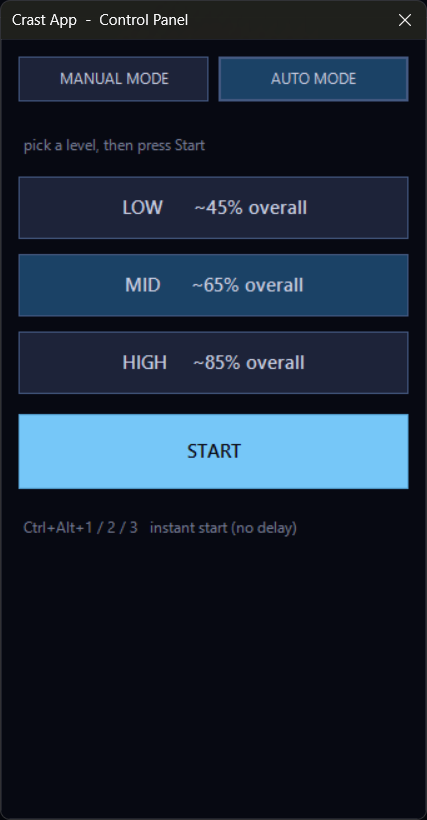
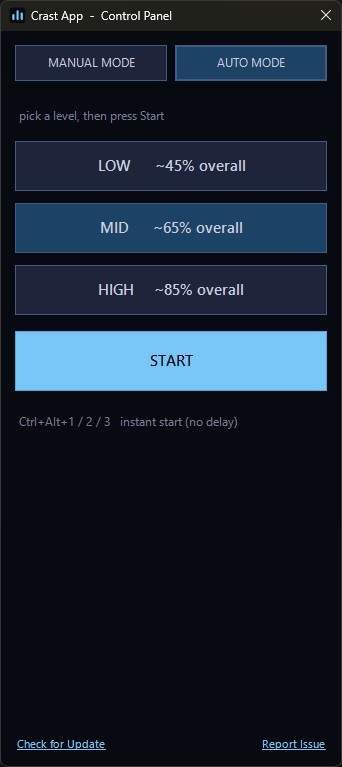
Update site copy and screenshots for browser tab switching + app switching
Broadens "Chrome tab switching" references across the home page, How It
Works, FAQ, and privacy pages to cover every supported browser, and adds
copy for the new independent App switching feature. Replaces the Auto
Mode and Manual Mode control panel screenshots with new ones showing the
taller mixer window and the new sliders.

diff --git a/how-it-works.html b/how-it-works.html
@@ -59,7 +59,7 @@
     <section class="guide-section alt">
       <div class="container guide-grid reverse">
         <div class="guide-image">
-          <img src="assets/screenshots/manual-mode.png" alt="Crast Manual Mode panel with Overall, Mouse, and Keyboard sliders">
+          <img src="assets/screenshots/manual-mode.png" alt="Crast Manual Mode panel with Overall, Mouse, Keyboard, Variation, Browser tab switch, and App switch sliders">
         </div>
         <div class="guide-text">
           <span class="tag">Manual Mode</span>
@@ -69,7 +69,8 @@
             <li>Switch to the <strong>Manual Mode</strong> tab in the control panel.</li>
             <li>Drag <strong>Overall</strong>, or set <strong>Mouse</strong> and <strong>Keyboard</strong> individually; Overall updates to match either way.</li>
             <li>Toggle <strong>Constant</strong> (fixed) or <strong>Range</strong> (randomized), and set how much it can drift with <strong>Variation</strong>.</li>
-            <li>Set how often Chrome tabs switch, or drag it to 0 to turn that off entirely.</li>
+            <li>Set how often browser tabs switch, or drag it to 0 to turn that off entirely.</li>
+            <li>Set how often Crast rotates to a different open app, or drag it to 0 to turn that off too.</li>
             <li>Press <strong>Start</strong>, or hide the panel with <kbd>Ctrl+Alt+G</kbd>. Either way, there's a short pause before anything actually starts moving, so you have time to step away.</li>
           </ol>
           <p class="note"><kbd>Ctrl+Alt+G</kbd> hides the panel and starts running, or brings it back to pause and adjust. <kbd>Ctrl+Alt+H</kbd> turns Manual Mode off completely.</p>
@@ -81,14 +82,14 @@
       <div class="container">
         <div class="section-head">
           <h2>What about screenshots?</h2>
-          <p>If your tracker takes periodic screenshots, tab switching and scrolling matter more than raw mouse or keyboard input, since a screenshot only shows whatever's on screen at that instant.</p>
+          <p>If your tracker takes periodic screenshots, tab switching, app switching, and scrolling matter more than raw mouse or keyboard input, since a screenshot only shows whatever's on screen at that instant.</p>
         </div>
         <div style="max-width:640px; margin:0 auto;">
           <ol class="steps">
-            <li>Make sure Chrome is the window actually showing on your screen. Tab switching only helps if Chrome is what's in the foreground.</li>
-            <li>Open a few real tabs you actually use for work, docs, dashboards, whatever's legitimate, so what shows up is stuff you'd normally have open anyway.</li>
-            <li>Crast rotates through those open tabs automatically, so a screenshot never catches the same tab sitting there twice in a row.</li>
-            <li>In <strong>Manual Mode</strong>, the Chrome tab switch slider sets exactly how many seconds go by between switches.</li>
+            <li>Open a few real tabs and apps you actually use for work, docs, dashboards, whatever's legitimate, so what shows up is stuff you'd normally have open anyway.</li>
+            <li>Crast rotates through those open browser tabs automatically, so a screenshot never catches the same tab sitting there twice in a row. It works across Chrome, Edge, Brave, Opera, Vivaldi, and Firefox, whichever one is actually in the foreground.</li>
+            <li>Crast also rotates which app is in the foreground, on its own separate timer, so a screenshot can catch you in your browser, your editor, a document, whatever else you have open, instead of the same window every time.</li>
+            <li>In <strong>Manual Mode</strong>, the browser tab switch and app switch sliders each set exactly how many seconds go by between switches, independently of each other.</li>
             <li>Crast scrolls the page too. Between a fresh tab and a different scroll position, back-to-back screenshots look like normal, active browsing instead of one frozen window.</li>
           </ol>
           <p class="note">Using <strong>Manual Mode</strong>? The control panel itself is a real, visible window while it's open, so if a screenshot would catch anything, it's that. Adjust your sliders and hit <strong>Start</strong> (or <kbd>Ctrl+Alt+G</kbd>) as soon as you're done. The panel disappears the instant you do, and the 10-second pause before anything starts moving means even a screenshot fired right around then won't catch the panel on screen.</p>

diff --git a/index.html b/index.html
@@ -92,8 +92,13 @@
           </div>
           <div class="card">
             <span class="tag">Browser sync</span>
-            <h3>Chrome tab switching</h3>
-            <p>Switches tabs in your real, multi-tab Chrome windows on whatever interval you want. Fully adjustable, or just turn it off in Manual mode.</p>
+            <h3>Browser tab switching</h3>
+            <p>Switches tabs in your real, multi-tab browser windows, Chrome, Edge, Brave, Opera, Vivaldi, and Firefox, on whatever interval you want. Fully adjustable, or just turn it off in Manual mode.</p>
+          </div>
+          <div class="card">
+            <span class="tag">App rotation</span>
+            <h3>App switching</h3>
+            <p>Rotates the active window across everything you have open, not just browsers. Set your own interval in Manual mode, or leave it running on its default timing in Auto mode.</p>
           </div>
           <div class="card">
             <span class="tag">Persistence</span>

diff --git a/download.html b/download.html
@@ -45,7 +45,7 @@
             <div class="price">&#8369;399 <span>one-time</span></div>
             <ul>
               <li>All intensity levels + Manual mixer</li>
-              <li>Chrome tab-switching</li>
+              <li>Browser tab &amp; app switching</li>
               <li>In-app updates</li>
               <li>Email support</li>
             </ul>

diff --git a/faq.html b/faq.html
@@ -99,7 +99,7 @@
 
           <div class="faq-item">
             <button class="faq-q">Why not just use a mouse jiggler?<span class="icon">+</span></button>
-            <div class="faq-a"><p>Mouse jigglers only move the cursor, and modern trackers are smart enough to flag that. Crast gives you configurable automation instead: multiple activity presets, manual controls, keyboard activity, browser tab switching, global hotkeys, and persistent settings, so you can tailor it to how you actually work.</p></div>
+            <div class="faq-a"><p>Mouse jigglers only move the cursor, and modern trackers are smart enough to flag that. Crast gives you configurable automation instead: multiple activity presets, manual controls, keyboard activity, browser tab switching, app switching, global hotkeys, and persistent settings, so you can tailor it to how you actually work.</p></div>
           </div>
 
           <div class="faq-item">

diff --git a/privacy.html b/privacy.html
@@ -44,7 +44,7 @@
           <p>This policy explains what information Crast (the app) and crastapp.com (this website) collect, and what happens to it. It doesn't cover license terms, refunds, or acceptable use, that's the End User License Agreement, which you can review at time of purchase.</p>
 
           <h2>What Crast does not collect</h2>
-          <p>Crast runs 100% locally on your computer. During normal use, whether that's Auto Mode, Manual Mode, or Chrome tab switching, it does not record, store, or transmit:</p>
+          <p>Crast runs 100% locally on your computer. During normal use, whether that's Auto Mode, Manual Mode, browser tab switching, or app switching, it does not record, store, or transmit:</p>
           <ul>
             <li>Your files or documents</li>
             <li>Screenshots of your screen</li>

diff --git a/CRAST-APP-REFERENCE.md b/CRAST-APP-REFERENCE.md
@@ -1,0 +1,164 @@
+# Crast App — Full Reference
+
+A single source-of-truth document pulling together everything that exists about Crast App
+today, for use as raw material when writing the actual website copy. Not itself meant to be
+published verbatim — some of this is internal/technical detail, not marketing language.
+
+---
+
+## 1. What it is
+
+Crast App is a Windows desktop utility that runs quietly in the background and simulates
+ongoing computer activity — mouse movement, scrolling, keyboard taps, browser tab switching,
+and app switching — tuned to read as genuine activity to a per-second, Hubstaff-style
+productivity tracker (the kind that measures `active_seconds / 600` over rolling 10-minute
+windows, separately for mouse and keyboard).
+
+It's aimed at people whose work is monitored by this style of activity tracker and who want
+their measured activity level to sit at a specific, controllable target rather than reflect
+literal second-by-second input.
+
+- Runs hidden, no visible window most of the time — controlled entirely by global hotkeys.
+- Shows a system tray icon for status and a right-click fallback menu.
+- Auto-launches at Windows login once installed.
+
+## 2. Key features
+
+- **Three auto intensity levels** (Low / Mid / High) — one tap of a hotkey and it runs at a
+  fixed target activity band, drifting naturally within that band so it never looks
+  perfectly flat.
+- **Manual mixer mode** — a dedicated control-panel window with sliders for exact Mouse %,
+  Keyboard %, and Overall % control, a Constant/Range toggle, an adjustable variation band,
+  and its own adjustable browser tab-switch and app-switch intervals. For users who want to
+  dial in an exact number rather than use a preset.
+- **Self-healing browser tab-switching** — advances the active tab in real, multi-tab browser
+  windows (Chrome, Edge, Brave, Opera, Vivaldi, Firefox) on an interval, with a fallback
+  detection method so a future browser UI update can't silently break it.
+- **App switching** — independently rotates which open application is in the foreground on
+  its own interval, restoring it first if it was minimized. Unlike tab-switching's brief
+  flash, this stays on each app for the full interval.
+- **Persistent settings** — Manual mode's slider values are saved and restored automatically,
+  including across a reboot.
+- **Licensed / commercial product** — key-based activation, device-limit enforcement,
+  in-app "Check for Update" and "Report Issue" features.
+
+## 3. The three auto levels + Manual mode
+
+All three auto levels and Manual mode share one proven underlying engine (a per-second,
+run-based mouse-activity model with independently-firing keyboard activity), just aimed at
+different targets:
+
+| Mode | Hotkey | Overall activity target | Mouse center | Keyboard center |
+|---|---|---|---|---|
+| **Low** | `Ctrl+Alt+1` | ~45% | 37% (±10) | 13% (±10) |
+| **Mid** | `Ctrl+Alt+2` | ~65% | 51% (±10) | 29% (±10) |
+| **High** | `Ctrl+Alt+3` | ~85% | 72% (±10) | 46% (±10) |
+| **Manual** | `Ctrl+Alt+H` | whatever you set | your slider | your slider (independent) |
+
+- Only one mode runs at a time. Pressing the *active* mode's hotkey again turns it off;
+  pressing a *different* mode's hotkey switches directly.
+- Each level redraws its exact numbers once every aligned 10-minute block, nudged
+  ±10 percentage points around its center, so consecutive windows are never identical or a
+  flat line — but the center never drifts, so long-run averages stay predictable.
+- `Ctrl+Alt+G` hides/shows the Manual mixer window: hiding arms a **10-second grace period**
+  before movement actually starts (time to step away from the mouse), showing it pauses
+  everything instantly for adjusting.
+- Right-clicking the tray icon offers the same mode choices as a mouse-driven fallback.
+
+## 4. Browser tab-switching (all modes)
+
+Every mode advances the active tab in the user's real, multi-tab browser windows — Chrome,
+Edge, Brave, Opera/Opera GX, Vivaldi, and Firefox — on an interval (25 seconds in the auto
+levels; user-adjustable, including fully off, in Manual mode). It only targets genuine
+browser windows with a tab strip — not browser-based app/PWA windows, and not other
+Chromium-based non-browser apps (e.g. Electron apps like Claude desktop). The browser briefly
+becomes the foreground window when a tab switches (an unavoidable side effect of how each
+browser exposes tab selection), then focus returns to whatever the user was doing.
+
+## 4.1 App-switching (all modes)
+
+A second, independent feature: on its own interval (45 seconds in the auto levels;
+user-adjustable, including fully off, in Manual mode), Crast brings the next real open
+application window to the foreground — restoring it first if it was minimized — and leaves it
+focused until the next interval. This rotates through everything the user has open, not just
+browsers, so it reads as genuinely switching between applications rather than a brief flash.
+
+## 5. System requirements & installation
+
+- Windows 10/11. Everything it needs (Windows PowerShell 5.1, .NET WinForms/UI Automation)
+  is already built into Windows — no separate runtime install.
+- No admin rights required.
+- Ships as a small installer (`Install-CrastApp.bat` / `.ps1` + a compiled executable).
+  Internally the compiled binary uses a generic filename ("DesktopUtility.exe") rather than
+  a "Crast"-branded one, for discretion on a monitored work machine — an implementation
+  detail, not something that needs to appear on the website.
+- Auto-adds itself to Windows startup so it's ready (off, not yet activated to a level) at
+  every login.
+
+## 6. Licensing & commercial model
+
+- **Key-based activation.** A purchased license key activates the software on a
+  fingerprinted device; validity is checked against a live backend at first run and
+  periodically after.
+- **Device tiers:** Single (1 device), Dual (2 devices), Triple (3 devices) — the license
+  key format encodes which tier it belongs to.
+- **In-app "Check for Update"** — checks a version endpoint and can self-download/swap to
+  the latest build without the customer needing to reinstall from scratch.
+- **In-app "Report Issue"** — lets a customer send a support request without leaving the app.
+- **No refunds** except where law requires it — purchase implies the buyer has evaluated the
+  software already (per EULA §10).
+- **Support channel:** in-app Report Issue, or **[email redacted]**.
+- Full legal terms: see `CrastApp-Licensing\EULA.md` (also summarized in §8 below) — governed
+  by Philippine law.
+
+## 7. Version / product history
+
+- The app was originally built and shipped internally under the working name **"Dreamer
+  Mode."** It was renamed to **"Crast App"** on 2026-07-13 — branding/text-only change, no
+  behavior difference. (Not necessarily something to mention publicly; noted here only for
+  historical accuracy.)
+- **Version 1** — first fully-working build: Mid + Low auto levels only, no manual control.
+- **Version 2** — added the Manual mixer window (sliders, Constant/Range toggle, adjustable
+  variation, adjustable tab-switch interval), persisted settings.
+- **Version 3 (current)** — unified all three auto levels (reintroducing a third, **High**,
+  level) onto one shared, more accurate engine; moved the auto-level hotkeys to
+  `Ctrl+Alt+1/2/3`; added a tabbed Manual/Auto interface to the mixer window with one-click
+  Start buttons on each tab. Later in the same version: broadened tab-switching from
+  Chrome-only to every major browser, and added the independent app-switching feature (see
+  §2 and §4.1).
+- The commercial layer (licensing, updates, installer, generic-exe packaging) was built as a
+  separate track on top of V3 to turn it into a sellable product.
+
+## 8. Legal summary (End User License Agreement)
+
+Full text lives at `CrastApp-Licensing\EULA.md`; key points:
+
+- Software is **licensed, not sold** — no ownership transfers to the buyer.
+- License covers a set number of devices per the tier purchased (1 / 2 / 3); keys may not be
+  shared, resold, or published; reverse engineering is prohibited.
+- Provided **"as is"**, no warranty, liability capped at the amount paid.
+- Purchases are **final** (no refunds) except where consumer law requires otherwise.
+- Governed by the laws of the **Republic of the Philippines**.
+- Contact for legal/support questions: **[email redacted]**.
+
+## 9. Honest limitations (already documented internally — useful for setting expectations)
+
+- Manual mode's sliders are raw activity fractions the user calibrates by watching their own
+  tracker, not pre-calibrated tracker percentages.
+- Randomized "Range" variation is genuinely random, so it can occasionally land close to the
+  previous block's value — expected statistical behavior, not a bug.
+- Tab-switching necessarily steals foreground focus for a brief moment; no way around that
+  short of a browser extension. App-switching goes further and deliberately holds foreground
+  focus on each app for its full interval, and will restore a minimized window to do so.
+- Firefox tab-switching hasn't been independently verified (it uses a different underlying UI
+  toolkit than the Chromium browsers) — it fails safe if unsupported, simply skipping Firefox
+  windows rather than erroring.
+- Requires a real, unlocked, logged-in Windows desktop session (depends on global hotkeys +
+  UI Automation).
+
+## 10. Site / infrastructure (for reference, not page content)
+
+- Production domain: **crastapp.com** (also serves `www.crastapp.com`), HTTPS enforced,
+  hosted on GitHub Pages.
+- Source repo: `github.com/lmanalon911/crastapp-website` (public).
+- Current live page: a placeholder reading "Crast is coming soon."